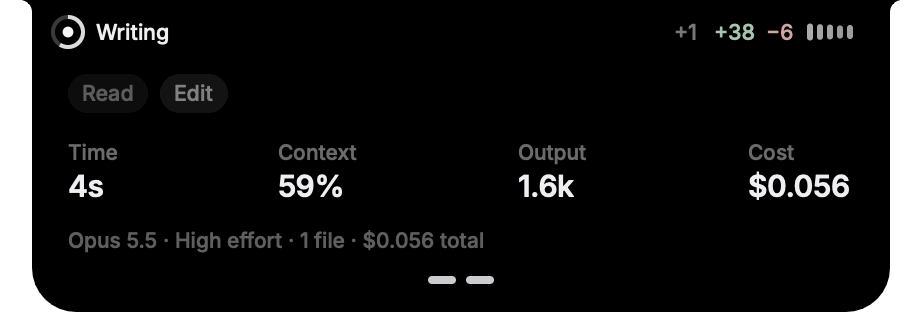
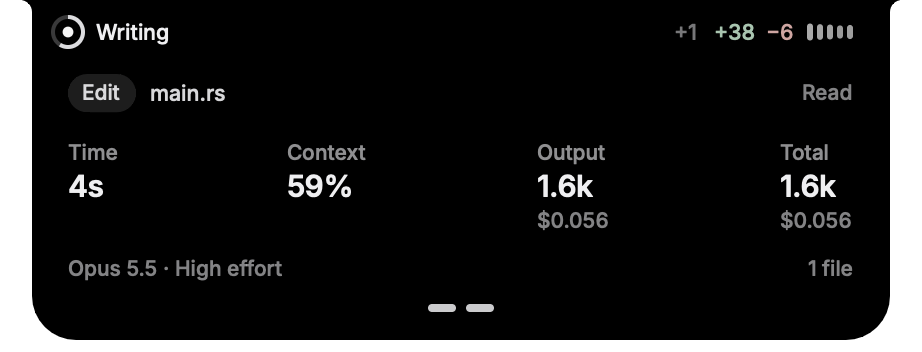
Card: newest tool call leads, totals since launch, idle pills drop off
- Without a todo list, the newest tool call owns the band: its tool as a
  badge and its argument at full width, earlier calls as dim names.
- The card shows the turn's output tokens and the total since launch,
  each with its cost, and grows to fit.
- The todo step in progress counts as half done.
- A session quiet for 15 minutes drops off the pill row.
- README and card screenshot updated.

diff --git a/src/expanded.rs b/src/expanded.rs
@@ -2,16 +2,17 @@
 //! and a pill for each session.
 
 use rune::{Color, El, LineCap, Shape, TextStyle, el};
-use crate::{INK, LABEL, Geom, Label, State, card, ledger, rounded};
+use crate::{INK, LABEL, Geom, Label, State, card, chat::{self, Chat}, ledger, rounded};
 
 /// The open card under the top row: the step of Claude's todo list, or its last few tool calls;
-/// the turn's time, context, output and cost, each a caption over its value; and a quiet footer
-/// with the model and its effort.
+/// the turn's time and context, and its output tokens and those since launch with what they cost
+/// under them, each a caption over its value; and a quiet footer with the model, its effort and
+/// the files touched.
 pub fn card_labels(s: &State, g: &Geom, alpha: f32, mut shape: Shape, labels: &mut Vec<Label>) -> Shape {
     const CAPTION: TextStyle = TextStyle::new(10.5, 500.0);
     const VALUE: TextStyle = TextStyle::new(15.0, 550.0).tracking(-0.2);
     let (x0, x1) = (g.left() + 18.0, g.right() - 18.0);
-    // Clear of the notch's bottom edge, which shows against the island's not-quite-black.
+    // Clear of the notch's bottom edge, which shows because the panel's black is lighter than the notch's.
     let y0 = g.top + g.row + 8.0;
     let w = |t: &str| rune::text::measure(t, &[], LABEL, None).0;
     let label = |text: String, x: f32, room: f32, a: f32| Label { text, x, y: y0, room, alpha: alpha * a, color: INK, right: false, head: false, style: LABEL };
@@ -20,36 +21,47 @@ pub fn card_labels(s: &State, g: &Geom, alpha: f32, mut shape: Shape, labels: &m
     if let Some((step, total, now)) = lead.and_then(|c| c.todo.as_ref()) {
         let count = format!("{step}/{total}");
         let x = x0 + w(&count) + 8.0;
-        labels.push(label(count, x0, 0.0, 0.45));
+        labels.push(label(count, x0, 0.0, 0.6));
         labels.push(label(now.clone(), x, x1 - x, 0.9));
         let y = y0 + 20.0;
         shape = shape.line([x0, y], [x1, y], 2.0, LineCap::Round, Color { a: 0.08 * alpha, ..INK });
-        let done = (*step - 1) as f32 / (*total).max(1) as f32;
-        if done > 0.0 { shape = shape.line([x0, y], [x0 + (x1 - x0) * done, y], 2.0, LineCap::Round, Color { a: 0.5 * alpha, ..INK }) }
-    } else if let Some(c) = lead && !c.trail.is_empty() {
-        // Without a list, the turn's last few tool calls as chips, oldest first and quieter; those
-        // that don't fit drop off the left, and the newest eases in from a little to the right.
+        // The step in progress counts as half done, so step 1 of 1 doesn't read as stalled.
+        let done = (*step as f32 - 0.5) / (*total).max(1) as f32;
+        shape = shape.line([x0, y], [x0 + (x1 - x0) * done, y], 2.0, LineCap::Round, Color { a: 0.5 * alpha, ..INK });
+    } else if let Some(c) = lead && let Some((name, arg, at)) = c.trail.last() {
+        // Without a list, the newest tool call owns the band: its tool as a badge, then its argument
+        // at full width, a command or pattern in mono. The calls before it sit on the right as dim
+        // names, newest first, the oldest going first when they would crowd the argument. The
+        // badge and argument ease in from a little to the right.
         const PAD: f32 = 7.0;
         const GAP: f32 = 6.0;
-        const ARG: f32 = 110.0;
-        let th = rune::text::measure("Ag", &[], LABEL, None).1;
-        let widths: Vec<f32> = c.trail.iter().map(|(n, a, _)| w(n) + if a.is_empty() { 0.0 } else { 5.0 + w(a).min(ARG) } + 2.0 * PAD).collect();
-        let (mut first, mut used) = (widths.len(), 0.0);
-        while first > 0 && (first == widths.len() || used + GAP + widths[first - 1] <= x1 - x0) {
-            used += widths[first - 1] + if first == widths.len() { 0.0 } else { GAP };
-            first -= 1;
+        const MONO: TextStyle = TextStyle::new(10.0, 500.0).family(rune::Family::SystemMono);
+        let wc = |t: &str| rune::text::measure(t, &[], CAPTION, None).0;
+        let mut before: Vec<&str> = c.trail.iter().rev().skip(1).map(|(n, _, _)| n.as_str()).collect();
+        let marks = |b: &[&str]| b.iter().map(|n| wc(n) + GAP).sum::<f32>();
+        while marks(&before) > (x1 - x0) * 0.4 { before.pop(); }
+        let mut x = x1 - marks(&before) + GAP;
+        for n in &before {
+            labels.push(Label { text: n.to_string(), x, y: y0, room: 0.0, alpha: alpha * 0.55, color: INK, right: false, head: false, style: CAPTION });
+            x += wc(n) + GAP;
         }
-        let mut x = x0;
-        for (i, ((name, arg, at), cw)) in c.trail.iter().zip(&widths).enumerate().skip(first) {
-            let k = ((s.t - at) / 0.3).clamp(0.0, 1.0);
-            let e = k * k * (3.0 - 2.0 * k);
-            let a = [1.0, 0.7, 0.5, 0.35][(c.trail.len() - 1 - i).min(3)] * e;
-            let cx = x + 8.0 * (1.0 - e);
-            shape = shape.fill(rounded(cx + cw * 0.5, y0 - 3.0, cw * 0.5, th + 6.0, (th + 6.0) * 0.5), Color { a: 0.08 * alpha * a, ..INK });
-            labels.push(label(name.clone(), cx + PAD, 0.0, 0.5 * a));
-            if !arg.is_empty() { labels.push(label(arg.clone(), cx + PAD + w(name) + 5.0, w(arg).min(ARG) + 1.0, 0.9 * a)) }
-            x += cw + GAP;
+        let k = ((s.t - at) / 0.3).clamp(0.0, 1.0);
+        let e = k * k * (3.0 - 2.0 * k);
+        let cx = x0 + 8.0 * (1.0 - e);
+        let th = rune::text::measure("Ag", &[], CAPTION, None).1;
+        let bw = wc(name) + 2.0 * PAD;
+        shape = shape.fill(rounded(cx + bw * 0.5, y0 - 3.0, bw * 0.5, th + 6.0, (th + 6.0) * 0.5), Color { a: 0.12 * alpha * e, ..INK });
+        labels.push(Label { text: name.clone(), x: cx + PAD, y: y0, room: 0.0, alpha: alpha * 0.9 * e, color: INK, right: false, head: false, style: CAPTION });
+        if !arg.is_empty() {
+            let style = if matches!(name.as_str(), "Bash" | "Grep" | "Glob") { MONO } else { LABEL };
+            let ax = cx + bw + 7.0;
+            let room = x1 - marks(&before) - 4.0 - ax;
+            labels.push(Label { text: arg.clone(), x: ax, y: y0, room: room.max(0.0), alpha: alpha * 0.9 * e, color: INK, right: false, head: false, style });
         }
+    } else {
+        // Nothing to list yet: say so, rather than leave the band blank.
+        let text = if s.working() { "No tool calls yet" } else { "–" };
+        labels.push(label(text.into(), x0, 0.0, 0.6));
     }
     // Several sessions at once: time runs from the first of their turns to start until the last
     // ends, context reads the fullest, as the ring does, output and cost add up.
@@ -59,29 +71,40 @@ pub fn card_labels(s: &State, g: &Geom, alpha: f32, mut shape: Shape, labels: &m
         card::duration(end - at)
     });
     let (out, cost) = s.turn();
+    // A dash is a number not known yet; context is unknown until a request has come back.
+    let filled = s.filled();
+    let tokens = |n: u64| if n > 0 { card::tokens(n) } else { "–".into() };
+    let usd = |d: f64| if d > 0.0 { ledger::usd(d) } else { String::new() };
+    // Output tokens lead; what they cost sits under them, smaller.
     let stats = [
-        ("Time", took.unwrap_or_else(|| "–".into())),
-        ("Context", format!("{:.0}%", s.filled() * 100.0)),
-        ("Output", if out > 0 { card::tokens(out) } else { "–".into() }),
-        ("Cost", if cost > 0.0 { ledger::usd(cost) } else { "–".into() }),
+        ("Time", took.unwrap_or_else(|| "–".into()), String::new()),
+        ("Context", if filled > 0.0 { format!("{:.0}%", filled * 100.0) } else { "–".into() }, String::new()),
+        ("Output", tokens(out), usd(cost)),
+        ("Total", tokens(s.total_out), usd(s.total_cost)),
     ];
     // The first starts at the left edge and the last ends at the right, with even gaps between.
     // Digits are measured as zeros, so the row holds still while the numbers count.
     let zeros = |t: &str, style| rune::text::measure(&t.replace(|c: char| c.is_ascii_digit(), "0"), &[], style, None).0;
-    let widths: Vec<f32> = stats.iter().map(|(c, v)| zeros(c, CAPTION).max(zeros(v, VALUE))).collect();
+    let widths: Vec<f32> = stats.iter().map(|(c, v, d)| zeros(c, CAPTION).max(zeros(v, VALUE)).max(zeros(d, CAPTION))).collect();
     let gap = ((x1 - x0 - widths.iter().sum::<f32>()) / (stats.len() - 1) as f32).max(0.0);
     let mut x = x0;
-    for ((caption, value), w) in stats.into_iter().zip(widths) {
-        labels.push(Label { text: caption.into(), x, y: y0 + 30.0, room: 0.0, alpha: alpha * 0.45, color: INK, right: false, head: false, style: CAPTION });
+    for ((caption, value, cost), w) in stats.into_iter().zip(widths) {
+        labels.push(Label { text: caption.into(), x, y: y0 + 30.0, room: 0.0, alpha: alpha * 0.6, color: INK, right: false, head: false, style: CAPTION });
         labels.push(Label { text: value, x, y: y0 + 44.0, room: 0.0, alpha, color: INK, right: false, head: false, style: VALUE });
+        if !cost.is_empty() { labels.push(Label { text: cost, x, y: y0 + 64.0, room: 0.0, alpha: alpha * 0.55, color: INK, right: false, head: false, style: CAPTION }) }
         x += w + gap;
     }
-    let total = if s.total_cost > 0.0 { format!("{} total", ledger::usd(s.total_cost)) } else { String::new() };
+    // Who is working on the left and the files the turn touched on the right, as the stats run
+    // edge to edge. The stats add up every session in focus, which the lit pills below say; the
+    // model is the lead's. Short of room, the effort goes rather than letters.
     let (model, effort) = s.lead().map_or((String::new(), String::new()), |c| (card::model_name(&c.model), card::effort(&c.effort)));
-    let files = focus.iter().map(|c| c.files.len()).sum::<usize>();
-    let files = match files { 0 => String::new(), 1 => "1 file".into(), n => format!("{n} files") };
-    let footer: Vec<String> = [model, effort, files, total].into_iter().filter(|t| !t.is_empty()).collect();
-    labels.push(Label { text: footer.join(" · "), x: x0, y: y0 + 74.0, room: x1 - x0, alpha: alpha * 0.4, color: INK, right: false, head: false, style: CAPTION });
+    let files = match focus.iter().map(|c| c.files.len()).sum::<usize>() { 0 => String::new(), 1 => "1 file".into(), n => format!("{n} files") };
+    let both = [&model, &effort].into_iter().filter(|t| !t.is_empty()).map(String::as_str).collect::<Vec<_>>().join(" · ");
+    let room = x1 - x0 - zeros(&files, CAPTION) - 16.0;
+    let left = if zeros(&both, CAPTION) <= room { both } else { model };
+    let foot = |text: String, x: f32, room: f32, right: bool| Label { text, x, y: y0 + 88.0, room, alpha: alpha * 0.55, color: INK, right, head: false, style: CAPTION };
+    labels.push(foot(left, x0, room.max(0.0), false));
+    labels.push(foot(files, x1, 0.0, true));
     shape
 }
 
@@ -91,12 +114,18 @@ pub fn pills(s: &State, g: &Geom, alpha: f32) -> Vec<El> {
     const W: f32 = 14.0;
     const H: f32 = 4.0;
     const GAP: f32 = 5.0;
-    let n = s.chats.len();
+    let row = pilled(s);
+    let n = row.len();
     if n < 2 { return Vec::new() }
     let focus = s.focus();
-    let (x0, y, k) = (g.w * 0.5 - (W * n as f32 + GAP * (n - 1) as f32) * 0.5, g.top + g.row + 106.0, g.k);
-    s.chats.iter().enumerate().map(|(i, c)| {
+    let (x0, y, k) = (g.w * 0.5 - (W * n as f32 + GAP * (n - 1) as f32) * 0.5, g.top + g.row + 120.0, g.k);
+    row.into_iter().enumerate().map(|(i, c)| {
         let a = if focus.iter().any(|f| f.id == c.id) { 0.85 } else { 0.22 } * alpha;
         el().absolute((x0 + (W + GAP) * i as f32) * k, y * k).size(W * k, H * k).radius(H * 0.5 * k).pixel_snap(false).fill(Color { a, ..INK })
     }).collect()
+}
+
+/// The sessions that keep a pill: any with a request in flight, or that streamed within `IDLE`.
+pub fn pilled(s: &State) -> Vec<&Chat> {
+    s.chats.iter().filter(|c| s.last_t - c.seen < chat::IDLE || s.sessions.values().any(|id| *id == c.id)).collect()
 }

diff --git a/src/main.rs b/src/main.rs
@@ -141,6 +141,8 @@ struct State {
     requests: HashMap<u64, (String, Usage)>,
     /// Dollars of every finished request since Notch opened.
     total_cost: f64,
+    /// Output tokens of every finished request since Notch opened.
+    total_out: u64,
     t: f32,
     last_t: f64,
     demo: Option<f32>,
@@ -190,7 +192,7 @@ impl State {
             Ev::Start { id, model, .. } if model.contains("haiku") => { self.side.insert(id); }
             Ev::Start { id, model, window, session } => {
                 let live: HashSet<&String> = self.sessions.values().collect();
-                self.chats.retain(|c| now - c.seen < 3600.0 || live.contains(&c.id));
+                self.chats.retain(|c| now - c.seen < chat::IDLE || live.contains(&c.id));
                 if !self.chats.iter().any(|c| c.id == session) {
                     if self.chats.len() >= CHATS && let Some(i) = (0..self.chats.len()).min_by(|&a, &b| self.chats[a].seen.total_cmp(&self.chats[b].seen)) { self.chats.remove(i); }
                     self.chats.push(Chat { id: session.clone(), ..Chat::default() });
@@ -243,7 +245,7 @@ impl State {
                 self.live.remove(&id);
                 if let Some((model, usage)) = self.requests.remove(&id) {
                     let cost = ledger::price(&model, &usage);
-                    self.total_cost += cost;
+                    (self.total_cost, self.total_out) = (self.total_cost + cost, self.total_out + usage.output);
                     if let Some(c) = self.chat(id) { (c.turn_out, c.turn_cost) = (c.turn_out + usage.output, c.turn_cost + cost) }
                 }
                 self.sessions.remove(&id);
@@ -376,7 +378,7 @@ impl State {
         // resizes fast, as the iPhone's island does.
         let (top, row) = if flat { (PILL_TOP, PILL_H + (self.wing_v.abs() / 500.0).min(1.0) * STRETCH) } else { (0.0, nh) };
         let rest = if flat { row * 0.5 } else { (nh * 0.32).min(10.0) };
-        let card_h = CARD_H + if self.chats.len() > 1 { PILLS } else { 0.0 };
+        let card_h = CARD_H + if expanded::pilled(self).len() > 1 { PILLS } else { 0.0 };
         Geom { w, wh, k, top, row, half, h: row + card_h * card, r: rest + (CARD_R - rest) * card.clamp(0.0, 1.0) }
     }
 
@@ -579,9 +581,9 @@ fn view(s: &State, _: &mut Cx<State>) -> El {
             let n = s.turn_tokens();
             let text = if limited { s.limit_words() } else { YOUR_TURN.into() };
             labels.push(Label { text, x: left + LABEL_X, y: row_y, room: 0.0, alpha: wait * words, color: INK, right: false, head: false, style: LABEL });
-            // The lines the turn changed stand in for its token count, which the card still has.
+            // The lines the turn changed stand in for its figure, which the open card says instead.
             if limited {} else if s.tally() != [0, 0] { diff_labels(s, right - 16.0, row_y, wait * words, &mut labels); }
-            else if !n.is_empty() { labels.push(Label { text: n, x: right - 16.0, y: row_y, room: 0.0, alpha: wait * words * 0.5, color: INK, right: true, head: false, style: LABEL }) }
+            else if !n.is_empty() { labels.push(Label { text: n, x: right - 16.0, y: row_y, room: 0.0, alpha: wait * words * 0.5 * (1.0 - s.card).clamp(0.0, 1.0), color: INK, right: true, head: false, style: LABEL }) }
         }
     }
     // The card's content fades in over the second half of its opening.
@@ -608,7 +610,7 @@ fn view(s: &State, _: &mut Cx<State>) -> El {
     if ca > 0.0 { for p in expanded::pills(s, &g, ca) { root = root.child(p) } }
     for l in labels {
         let x = if l.right { l.x - rune::text::measure(&l.text, &[], l.style, None).0 } else { l.x };
-        let style = TextStyle::new(l.style.size * k, l.style.weight).tracking(l.style.tracking * k);
+        let style = TextStyle { size: l.style.size * k, tracking: l.style.tracking * k, ..l.style };
         let mut t = text(l.text).font(style).color(Color { a: l.color.a * l.alpha, ..l.color }).absolute(x * k, l.y * k);
         if l.room > 0.0 { t = t.w(l.room * k); t = if l.head { t.truncate_head() } else { t.truncate() } }
         root = root.child(t);

diff --git a/src/tests.rs b/src/tests.rs
@@ -75,7 +75,7 @@ fn a_turn_counts_its_output_and_the_ring_reads_the_context() {
     s.apply(Ev::Start { id: 3, model: "claude-opus".into(), window: 1_000_000, session: String::new() });
     s.apply(Ev::Usage { id: 3, usage: usage(0, 300_000) });
     assert_eq!(s.turn_tokens(), "");
-    assert!((s.filled() - 0.3).abs() < 1e-3 && s.total_cost == 2.0 * one);
+    assert!((s.filled() - 0.3).abs() < 1e-3 && s.total_cost == 2.0 * one && s.total_out == 2_400);
 }
 
 #[test]
@@ -424,7 +424,15 @@ fn relay_to(answer: &'static str, hold: std::time::Duration) -> (u16, std::sync:
     let upstream = format!("http://{}", api.local_addr().unwrap());
     std::thread::spawn(move || {
         let (mut c, _) = api.accept().unwrap();
-        let _ = c.read(&mut [0u8; 4096]);
+        // Read the whole request, which `ask` ends with its `{}` body: closing on unread bytes
+        // resets the connection, and the relay would see the answer fail.
+        let mut got = Vec::new();
+        while !got.ends_with(b"{}") {
+            let mut buf = [0u8; 4096];
+            let n = c.read(&mut buf).unwrap();
+            if n == 0 { break }
+            got.extend_from_slice(&buf[..n]);
+        }
         c.write_all(answer.as_bytes()).unwrap();
         std::thread::sleep(hold);
     });
@@ -449,7 +457,8 @@ fn the_relay_hands_back_a_redirect_and_every_header_once() {
     ask(port).read_to_string(&mut got).unwrap();
     assert!(got.starts_with("HTTP/1.1 302"), "{got}");
     for h in ["location: http://127.0.0.1:9/elsewhere", "set-cookie: a=1", "set-cookie: b=2"] { assert_eq!(got.matches(h).count(), 1, "{h} in {got}") }
-    assert!(rx.iter().any(|e| e == Ev::End { id: 0, status: 302 }));
+    // The relay keeps its sender for good, so wait a while rather than for the channel to close.
+    assert!(std::iter::from_fn(|| rx.recv_timeout(std::time::Duration::from_secs(2)).ok()).any(|e| e == Ev::End { id: 0, status: 302 }));
 }
 
 #[test]
@@ -476,4 +485,19 @@ fn stopping_claude_mid_think_ends_the_request_at_once() {
             Err(_) => panic!("the request was still live 2s after the client left"),
         }
     }
+}
+
+#[test]
+fn a_session_quiet_fifteen_minutes_leaves_the_pill_row() {
+    let mut s = State::default();
+    for (id, session) in [(1, "a"), (2, "b")] {
+        s.apply(Ev::Start { id, model: String::new(), window: 200_000, session: session.into() });
+        s.apply(Ev::End { id, status: 200 });
+    }
+    s.last_t = chat::IDLE - 1.0;
+    assert_eq!(expanded::pilled(&s).len(), 2);
+    s.last_t = chat::IDLE + 1.0;
+    s.apply(Ev::Start { id: 3, model: String::new(), window: 200_000, session: "b".into() });
+    // "a" went quiet; "b" just spoke.
+    assert_eq!(expanded::pilled(&s).iter().map(|c| c.id.as_str()).collect::<Vec<_>>(), ["b"]);
 }

diff --git a/src/chat.rs b/src/chat.rs
@@ -3,6 +3,8 @@
 
 /// The most sessions that keep a pill; past it the one quiet longest goes.
 pub const CHATS: usize = 5;
+/// Seconds a session can stay quiet before its pill leaves the row.
+pub const IDLE: f64 = 900.0;
 /// Seconds a session mid-turn counts as busy without a request in flight, while a tool runs.
 // shortcut: an interrupted turn never ends, so it reads as busy this long; upgrade with a Stop hook.
 pub const BUSY: f64 = 120.0;

diff --git a/src/demo.rs b/src/demo.rs
@@ -44,6 +44,7 @@ pub fn demo(s: &mut State, dt: f32) {
         if let Kind::Tool(n) = &kind {
             let file = if n == "Read" { "card.rs" } else { "main.rs" };
             s.apply(Ev::Delta { id, kind: kind.clone(), text: format!(r#"{{"file_path":"src/{file}"}}"#) });
+            s.apply(Ev::Arg { id, arg: file.into() });
         }
     }
     // Bursty, like tokens arriving in uneven chunks.

diff --git a/src/screen.rs b/src/screen.rs
@@ -21,7 +21,7 @@ pub const PILL_MM: f32 = 7.5;
 /// The pill's zoom when the display doesn't report its size.
 const ZOOM: f32 = 1.25;
 /// How far the expanded card reaches below the island's top row.
-pub const CARD_H: f32 = 108.0;
+pub const CARD_H: f32 = 122.0;
 /// How much further it reaches for the row of session pills, when there are two or more.
 pub const PILLS: f32 = 16.0;
 

diff --git a/README.md b/README.md
@@ -15,7 +15,7 @@
 </p>
 
 <p align="center">
-  <img src="docs/card.png" width="461" alt="The island opened into a card: Writing, +38 −6, the files read and edited, 4s, 59% context, 1.6k output tokens, $0.056">
+  <img src="docs/card.png" width="461" alt="The island opened into a card: Writing, +38 −6, the tools called, 4s, 59% context, 1.6k output tokens this turn and since launch, each costing $0.056">
 </p>
 
 Stop flipping back to the terminal to check if Claude is done. Atoll shows what Claude is doing, what it's changing and what it's costing, right where your eyes already are, and tells you the moment it's your turn.
@@ -34,8 +34,8 @@ No plugins, no extension, no account: one setting points Claude Code at a relay 
 ## Features
 
 - **Live activity.** A coloured dot and label for thinking, writing or the tool being called, a waveform that moves with the stream, and a running `+42 −7` count of lines added and removed.
-- **Click to expand.** Opens a card with the tool's argument, turn time, context used, output tokens, turn and session cost, model and effort.
-- **Several sessions.** Each Claude Code session gets a pill along the bottom; the lit one owns the numbers.
+- **Click to expand.** Opens a card with the turn's todo step or recent tool calls, turn time, context used, the turn's output tokens and the total since launch with what each cost, then model, effort and files.
+- **Several sessions.** Each Claude Code session gets a pill along the bottom; the lit one owns the numbers. A session quiet for 15 minutes drops off the row.
 - **Rate limits.** Shows when the limit lifts, with a ring draining down to it.
 - **Permission prompts.** With the optional hook, the island turns amber and says "Needs you".
 - **Macs without a notch.** Floats as a small pill under the menu bar and follows it across displays.
